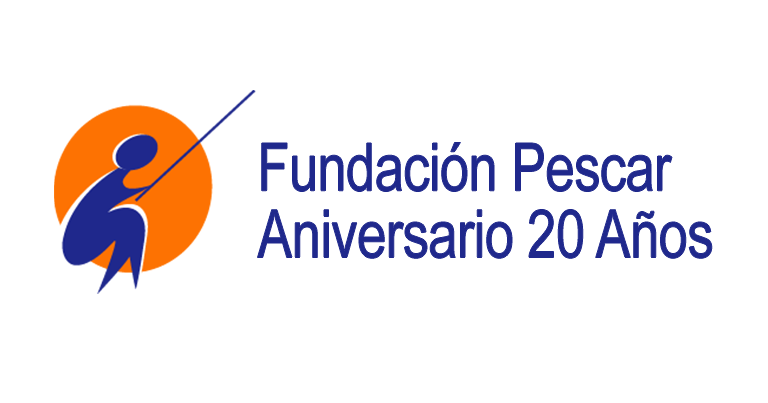
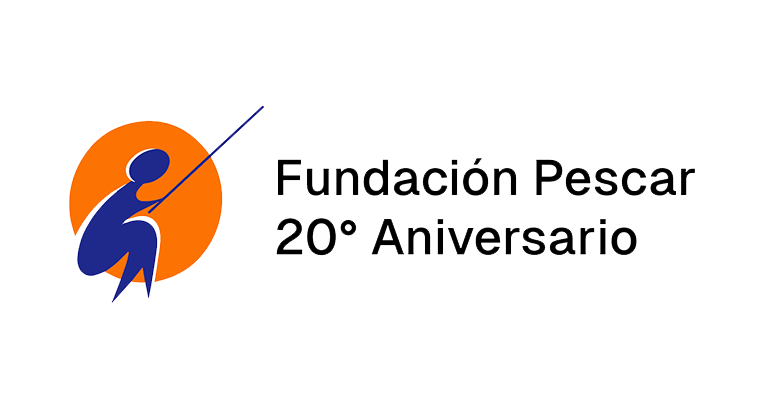
minor fixes in the ui and added readme

Changed region(s): [[0.0625, 0.2084, 0.9375, 0.7444]]

diff --git a/src/components/Layout/Header.jsx b/src/components/Layout/Header.jsx
@@ -32,28 +32,41 @@ const navLinks = [
   }
 ]
 
-export default function Header(){
+export function Header(){
   const [openMenu, setOpenMenu] = useState(false)
 
+  const handleOpenMenu = (option) => {
+    const htmlTag = document.documentElement
+
+    setOpenMenu(option)
+    if (option) {
+      htmlTag.classList.add('noScroll')
+    }
+    else
+    {
+      htmlTag.classList.remove('noScroll')
+    }
+  }
+
   return (
-    <header className="sticky top-0 bg-white/80 backdrop-blur-md z-50">
-      <div className="h-20 pb-2 max-lg:pt-0.5 max-lg:flex-col max-w-screen-xl mx-auto w-[90%] flex items-center gap-5">
-        <div className={"flex items-center justify-between max-lg:w-full min-w-max z-50 "+(openMenu? " max-lg:fixed top-0 max-w-[90%] mx-auto" : "")}>
+    <header className="sticky top-0 bg-white/80 backdrop-blur-lg z-50">
+      <div className="h-20 max-lg:pt-0.5 max-lg:flex-col max-w-screen-xl mx-auto w-[90%] flex items-center gap-5">
+        <div className={"flex items-center justify-between max-lg:bg-white/80 max-lg:backdrop-blur-lg max-lg:w-full min-w-max z-50 "+(openMenu? " max-lg:fixed top-0 max-w-[90%] mx-auto" : "")}>
           <Link 
             to="/"
-            onClick={() => setOpenMenu(false)}
+            onClick={() => handleOpenMenu(false)}
             className="font-medium flex items-center gap-0.5 group h-20"
           >
             <LogoPescar size="4.5em" className="h-fit sm:group-hover:-rotate-3 transition-transform duration-300 origin-bottom-left" />
             <div className="relative flex flex-col w-full -mb-0.5 sm:group-hover:rotate-2 duration-300 transition-transform">
               <span className="sm:group-hover:opacity-100 opacity-0 transition duration-300 w-3 h-[1px] bg-[#1f288ba6] absolute -top-1 rotate-[70deg] -left-2.5"></span>
               <small>Fundación Pescar</small>
-              <small className="-mt-1">20º Aniversario</small>
+              <small className="-mt-1">20° Aniversario</small>
             </div>
           </Link>
 
           <button
-            onClick={() => setOpenMenu(!openMenu)}
+            onClick={() => handleOpenMenu(!openMenu)}
             className={"lg:hidden hamburger" + (openMenu ? " is-active" : "")}
             aria-label="Menu"
           >
@@ -65,9 +78,9 @@ export default function Header(){
         
         <nav
           className={
-          "flex items-center gap-3 lg:gap-1 w-full max-lg:flex-col max-lg:overflow-hidden transition-all duration-200 max-lg:fixed z-40 "
+          "flex items-center gap-3 lg:gap-1 w-full max-lg:flex-col max-lg:overflow-y-scroll max-lg:pb-10 transition-all duration-200 max-lg:fixed z-40 "
           +
-          (openMenu? " max-lg:h-[100dvh] bg-white top-0 pt-20" : " max-lg:hidden")
+          (openMenu? " max-lg:h-[100dvh] max-lg:bg-white top-0 max-lg:pt-20" : " max-lg:hidden")
           }
         >
           {
@@ -76,7 +89,7 @@ export default function Header(){
                 key={link.id}
                 to={link.href}
                 style={{ animationDelay: `${index * 0.15}s` }}
-                onClick={() => setOpenMenu(false)}
+                onClick={() => handleOpenMenu(false)}
                 className={({isActive, isPending}) => (
                   "max-lg:fadeIn max-lg:w-[90%] max-lg:mx-auto max-lg:text-3xl transition-colors duration-75 flex items-center gap-2 lg:gap-1 py-1.5 px-3 font-medium bg-gradient-to-t hover:from-[#fc7203] hover:to-orange-400 hover:text-white rounded-xl"+
                   (isActive? " bg-gradient-to-t from-[#fc7203] to-orange-400 text-white" : "")+

diff --git a/src/components/Layout/Footer.jsx b/src/components/Layout/Footer.jsx
@@ -1,45 +1,46 @@
 import { FaXTwitter, FaFacebook, FaYoutube, FaInstagram, FaLinkedin, FaGithub } from 'react-icons/fa6'
 
+const iconsSize = '1.5em'
 const footerLinks = [
   {
     id: "footer_1_link",
     href: "https://www.linkedin.com/company/fundacionpescar",
-    icon: <FaLinkedin size={"1.65em"} />,
+    icon: <FaLinkedin size={iconsSize} />,
     label: "Seguinos en Linkedin"
   },
   {
     id: "footer_2_link",
     href: "https://www.instagram.com/fundacionpescar",
-    icon: <FaInstagram size={"1.65em"} />,
+    icon: <FaInstagram size={iconsSize} />,
     label: "Seguinos en Instagram"
   },
   {
     id: "footer_3_link",
     href: "https://x.com/FundacionPescar",
-    icon: <FaXTwitter size={"1.65em"} />,
+    icon: <FaXTwitter size={iconsSize} />,
     label: "Seguinos en X"
   },
   {
     id: "footer_4_link",
     href: "https://www.facebook.com/pescarargentina",
-    icon: <FaFacebook size={"1.65em"} />,
+    icon: <FaFacebook size={iconsSize} />,
     label: "Seguinos en Facebook"
   },
   {
     id: "footer_5_link",
     href: "https://www.youtube.com/user/fundacionpescarargen",
-    icon: <FaYoutube size={"1.65em"} />,
+    icon: <FaYoutube size={iconsSize} />,
     label: "Seguinos en Youtube"
   },
   {
     id: "footer_6_link",
-    href: "https://www.github.com/alexqs96/pescar20años",
-    icon: <FaGithub size={"1.65em"} />,
+    href: "https://www.github.com/alexqs96/aniversarioPescar",
+    icon: <FaGithub size={iconsSize} />,
     label: "Repositorio de la Pagina Web"
   }
 ]
 
-export default function Footer() {
+export function Footer() {
   return (
     <footer className="py-4 my-10 sm:my-5 fadeIn">
       <div className="max-w-screen-xl mx-auto w-[90%] flex gap-5 max-lg:flex-col-reverse justify-between items-center">

diff --git a/src/pages/Home/Carousel.jsx b/src/pages/Home/Carousel.jsx
@@ -4,7 +4,7 @@ import 'swiper/css/pagination';
 import { Autoplay, Navigation, Pagination } from 'swiper/modules';
 import { Swiper, SwiperSlide } from 'swiper/react';
 import { confetti } from 'tsparticles-confetti';
-import { pescarCarouselImages } from '../../lib/images';
+import { pescarCarouselImages } from '../../consts';
 
 
 export default function Carousel() {
@@ -52,7 +52,7 @@ export default function Carousel() {
           {
             pescarCarouselImages.map(e => (
               <SwiperSlide key={e + "carousel"}>
-                <img src={"/pescar/" + e} alt={e} className='aspect-square object-cover rounded-2xl cursor-grab' loading='lazy' />
+                <img src={"/pescar/" + e} alt={e} className='aspect-square object-cover rounded-2xl cursor-grab bg-white border' loading='lazy' />
               </SwiperSlide>
             ))
           }

diff --git a/src/pages/Home/SwiperHero.jsx b/src/pages/Home/SwiperHero.jsx
@@ -3,7 +3,7 @@ import 'swiper/css/effect-fade';
 import { Swiper, SwiperSlide } from 'swiper/react';
 import { Autoplay, EffectFade, Navigation, Pagination } from 'swiper/modules';
 import { FaChevronLeft, FaChevronRight } from "react-icons/fa6";
-import { pescarHeroImages } from '../../lib/images';
+import { pescarHeroImages } from '../../consts';
 
 export default function SwiperHero() {
   return (
@@ -31,7 +31,7 @@ export default function SwiperHero() {
           {
             pescarHeroImages.map(e => (
             <SwiperSlide key={e} className="mask max-h-[332px] w-full cursor-grab overflow-hidden">
-              <img src={"/pescar/"+e} alt={e} className='aspect-video' loading='lazy'/>
+              <img src={"/pescar/"+e} alt={e} className='aspect-video bg-white border' loading='lazy'/>
             </SwiperSlide>
             ))
           }

diff --git a/src/router.jsx b/src/router.jsx
@@ -1,15 +1,7 @@
-import { lazy } from "react";
 import { createBrowserRouter, RouterProvider } from "react-router-dom";
 import Layout from "./layout";
 import NotFound from "./not-found";
-
-const Home = lazy(() => import("./pages/Home/Home"))
-const Games = lazy(() => import("./pages/Juegos/Page"))
-const TriviaPescar = lazy(() => import("./pages/Juegos/TriviaPescar/Page"))
-const MemoTest = lazy(() => import("./pages/Juegos/MemoTest/Page"))
-const Students = lazy(() => import("./pages/Students/Students"))
-const Testimonials = lazy(() => import("./pages/Testimonials/Testimonials"))
-const Entrepreneurs = lazy(() => import("./pages/Entrepreneurs/Entrepreneurs"))
+import { Home, Games, MemoTest, TriviaPescar, Students, Entrepreneurs, Testimonials } from "./pages/index" ;
 
 const router = createBrowserRouter([
   {

diff --git a/src/pages/Entrepreneurs/Entrepreneurs.jsx b/src/pages/Entrepreneurs/Entrepreneurs.jsx
@@ -6,10 +6,11 @@ export default function Entrepreneurs(){
   return(
     <section className='grid grid-cols-1 lg:grid-cols-2 gap-5'>
     {
-      emprendedores.map(emprendedor => (
+      emprendedores.map((emprendedor, index) => (
         <div
           key={emprendedor.id}
-          className='flex max-md:flex-col gap-5 border border-black/5 shadow-lg p-5 rounded-2xl'
+          style={{ animationDelay: `${index * 0.15}s` }}
+          className='fadeIn flex max-md:flex-col gap-5 border border-black/5 shadow-lg p-5 rounded-2xl'
         >
           <img
             className='w-full md:max-w-[30%] mb-auto rounded-lg'

diff --git a/src/pages/Students/Students.jsx b/src/pages/Students/Students.jsx
@@ -67,7 +67,7 @@ export default function Students() {
               title={"Foto de " + dev.name}
               loading='lazy'
             />
-            <div className='flex flex-col gap-1'>
+            <div className='flex flex-col gap-1.5'>
               <span className="block text-xl truncate font-medium" title={dev.name}>
                 {dev.name}
               </span>
@@ -97,7 +97,7 @@ export default function Students() {
                 ) : null}
               </div>
 
-              <p>{dev.about}</p>
+              <small>{dev.about}</small>
             </div>
           </div>
         ))

diff --git a/src/pages/index.jsx b/src/pages/index.jsx
@@ -1,0 +1,9 @@
+import { lazy } from 'react'
+
+export const Home = lazy(() => import("./Home/Home"));
+export const Games = lazy(() => import('./Games/Games'));
+export const MemoTest = lazy(() => import('./Games/MemoTest/MemoTest'));
+export const TriviaPescar = lazy(() => import('./Games/TriviaPescar/TriviaPescar'));
+export const Students = lazy(() => import('./Students/Students'));
+export const Entrepreneurs = lazy(() => import('./Entrepreneurs/Entrepreneurs'));
+export const Testimonials = lazy(() => import('./Testimonials/Testimonials'));

diff --git a/index.html b/index.html
@@ -19,6 +19,16 @@
     <link rel="icon" type="image/svg" href="/favicon.svg" />
     <link rel="apple-touch-icon" href="/favicon.svg">
     <title>Fundación Pescar | 20 Años</title>
+    <style>
+      @font-face {
+        font-family: "Geist";
+        src: url("/fonts/Geist/GeistVariableVF.woff2") format("woff2-variations");
+      }
+
+      :root{
+        font-family: 'Geist';
+      }
+    </style>
   </head>
   <body>
     <div id="root"></div>

diff --git a/src/layout.jsx b/src/layout.jsx
@@ -1,7 +1,6 @@
 import { Suspense } from "react"
 import { Outlet } from "react-router-dom"
-import Header from "./components/Layout/Header"
-import Footer from "./components/Layout/Footer"
+import { Header, Footer } from "./components/index"
 import Loading from "./loading"
 
 function Layout() {

diff --git a/src/pages/Games/MemoTest/MemoTest.jsx b/src/pages/Games/MemoTest/MemoTest.jsx
@@ -1,6 +1,6 @@
 import { useState, useEffect } from 'react';
 import Swal from 'sweetalert2';
-import { memoTestImages } from '../../../lib/images';
+import { memoTestImages } from '../../../consts';
 import { FaGithub } from 'react-icons/fa6';
 
 // Desarrollado por https://github.com/martinvirun

diff --git a/src/index.css b/src/index.css
@@ -22,6 +22,10 @@ html{
 }
 
 @layer utilities{
+  .noScroll{
+    @apply max-lg:overflow-y-hidden
+  }
+
   @keyframes fadeIn {
     0% {
       opacity: 0;
